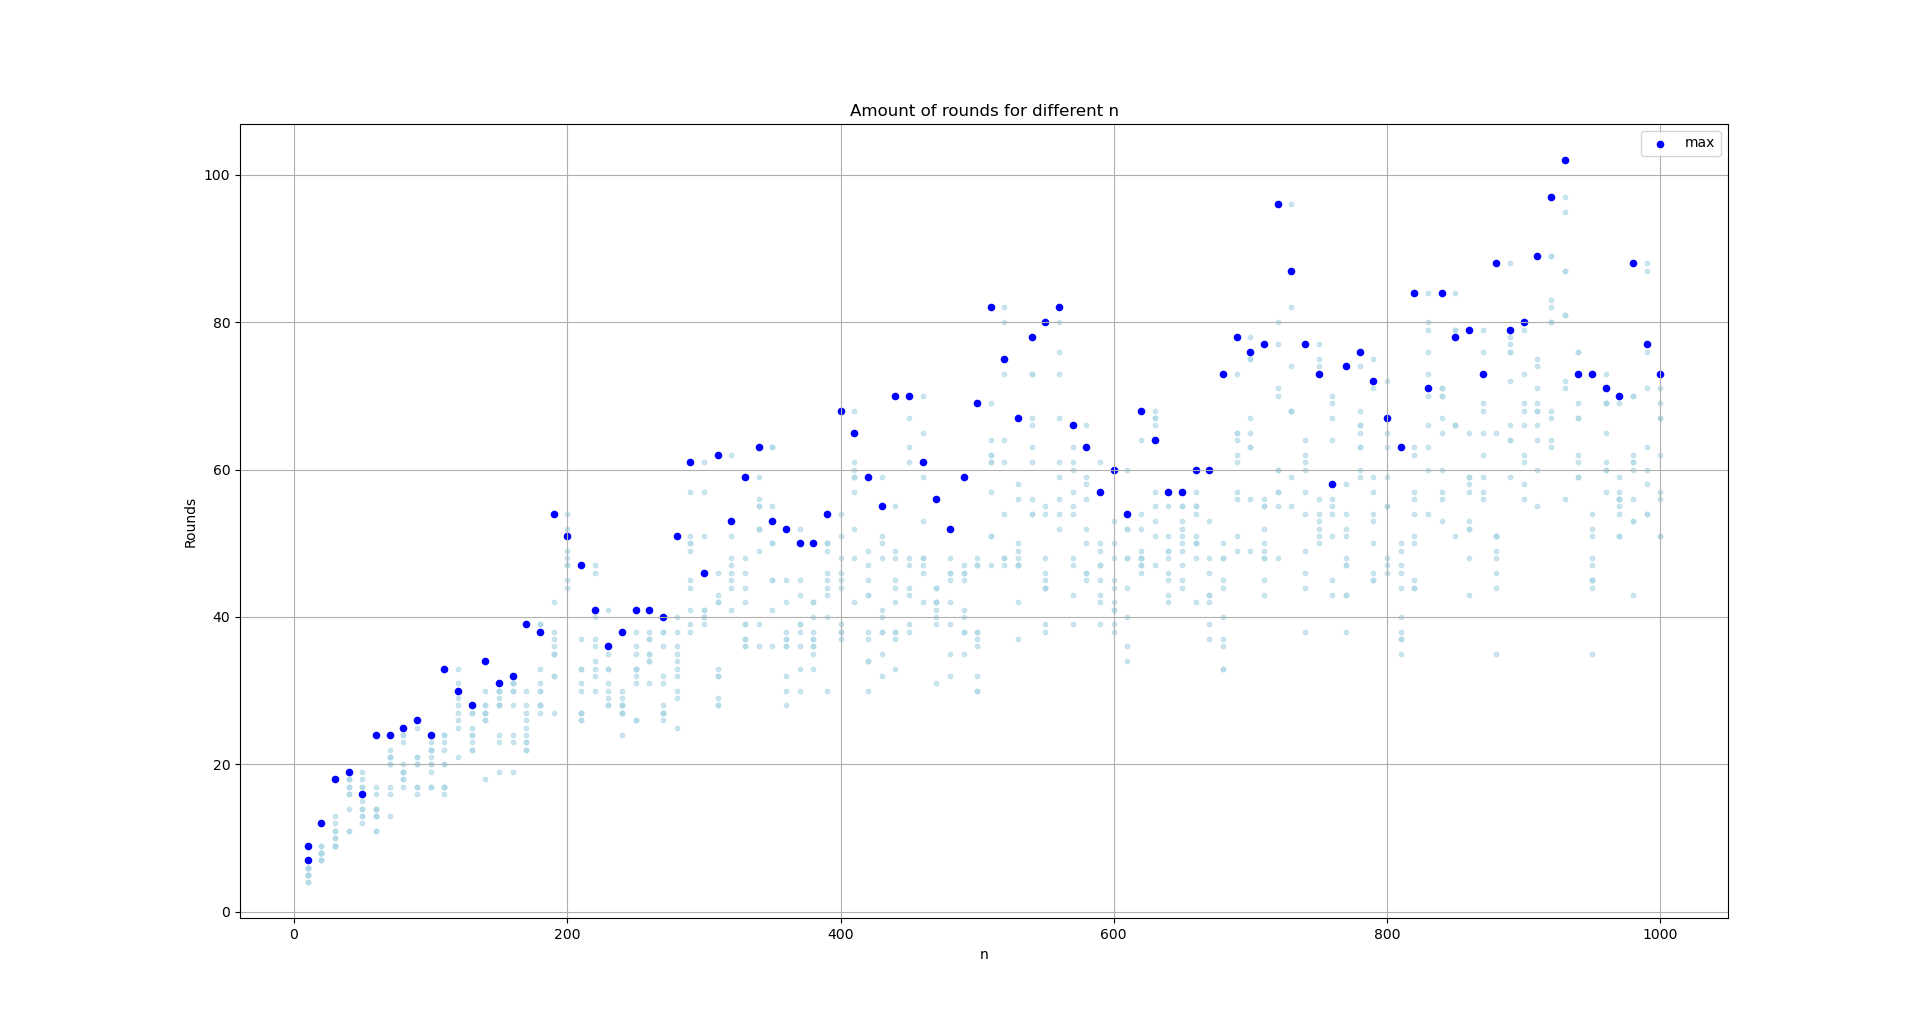
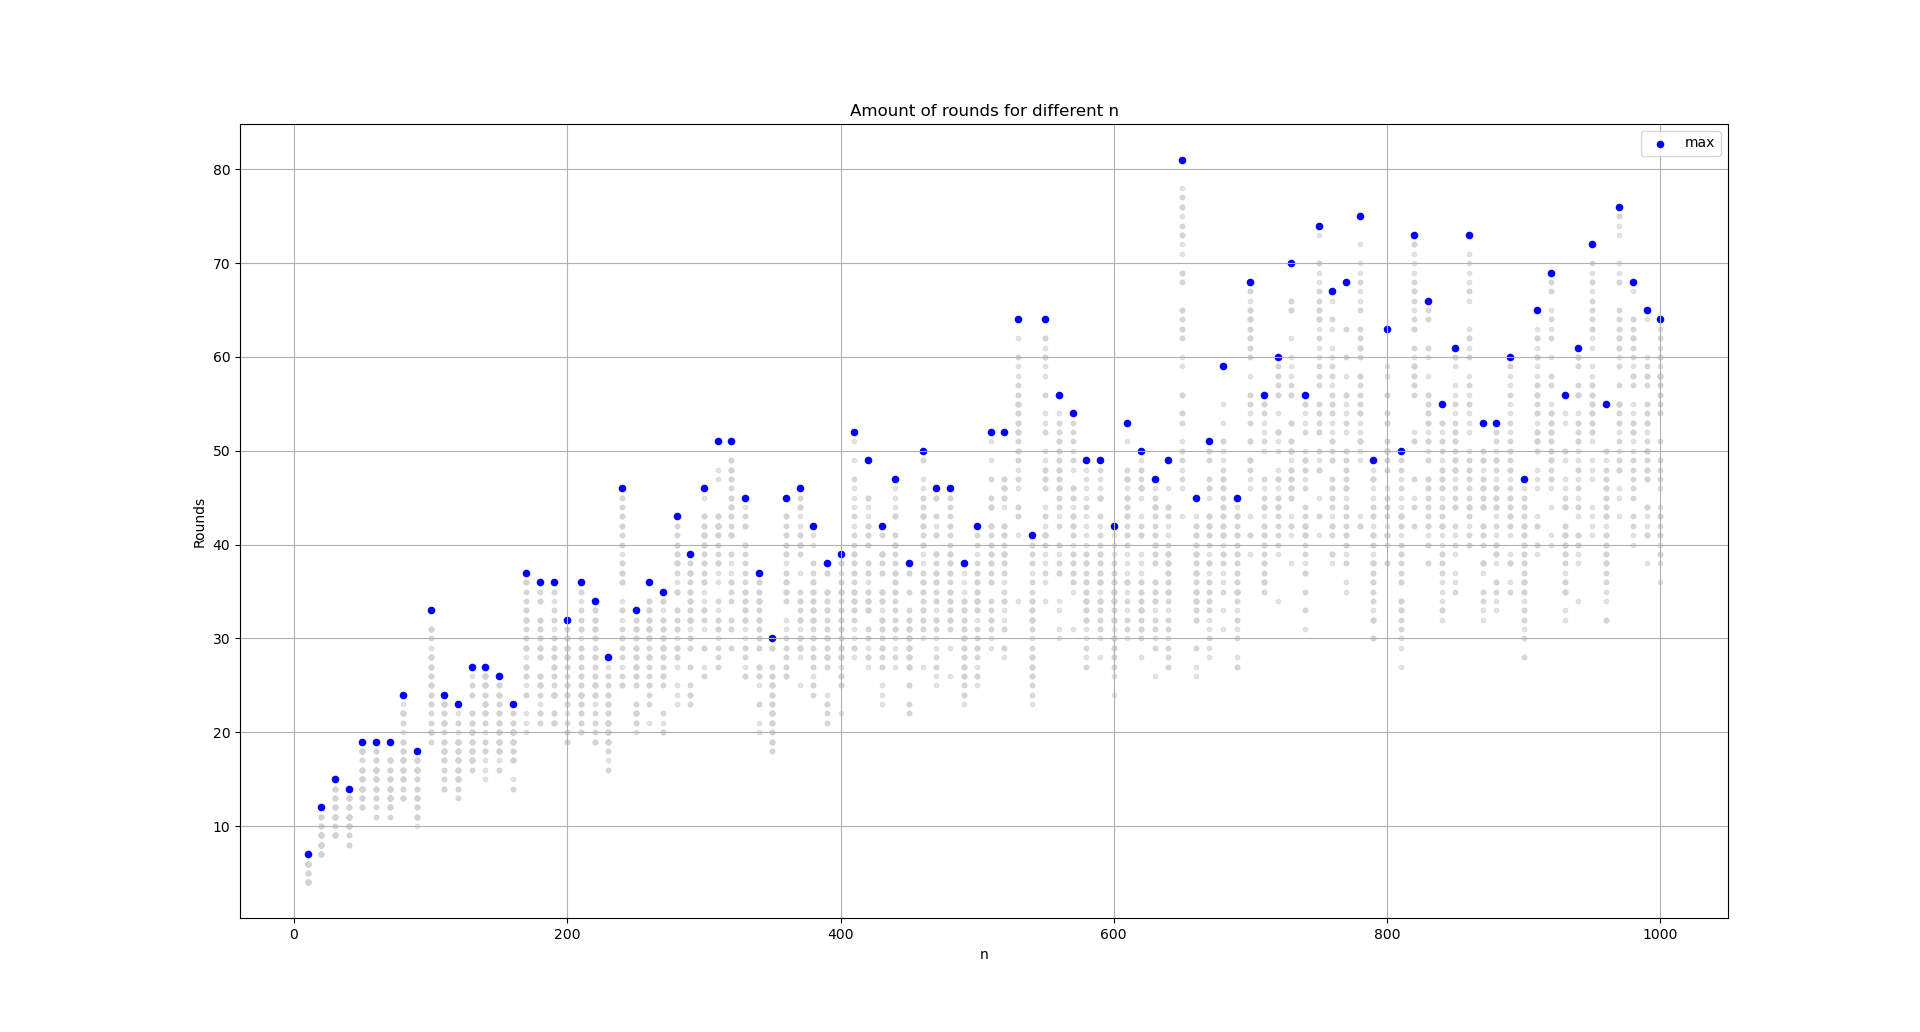
zad2 new version

diff --git a/lista5/zad2/RoundMinimizer.java b/lista5/zad2/RoundMinimizer.java
@@ -1,45 +1,129 @@
-import java.util.*;
+import java.util.ArrayList;
+import java.util.Collections;
+import java.util.List;
 
 public class RoundMinimizer {
-    public static int[] minimizeRounds(int[][] mst, int n, int root) {
-        List<List<Integer>> adjacencyList = new ArrayList<>();
+
+    public static int minimizeRounds(int[][] adjMatrix, int n, int root) {
+        Node[] nodes = new Node[n];
+
+        // adding nodes to node array
         for (int i = 0; i < n; i++) {
-            adjacencyList.add(new ArrayList<>());
+            nodes[i] = new Node(i);
         }
 
+        // adding children to each node
         for (int i = 0; i < n; i++) {
             for (int j = 0; j < n; j++) {
-                if (mst[i][j] == 1) {
-                    adjacencyList.get(i).add(j);
+                if (adjMatrix[i][j] == 1) {
+                    nodes[i].addChild(nodes[j]);
                 }
             }
         }
 
-        int[] rounds = new int[n];
-        Arrays.fill(rounds, -1);
-        Queue<Integer> queue = new LinkedList<>();
-        queue.offer(root);
-        rounds[root] = 0;
+        // setting parents for each node, root's parent is null
+        setParentChildRelations(nodes, root, null);
 
-        while (!queue.isEmpty()) {
-            int size = queue.size();
-            for (int i = 0; i < size; i++) {
-                int u = queue.poll();
-                
-                List<Integer> children = adjacencyList.get(u);
-                children.sort((a, b) -> adjacencyList.get(b).size() - adjacencyList.get(a).size());
-                int r = rounds[u] + 1;
+        // computing maximum number of rounds needed to propagate information starting from the root node
+        int maxRound = computePropagationOrder(nodes[root], null);
 
-                for (int v : children) {
-                    if (rounds[v] == -1) {
-                        rounds[v] = r;
-                        queue.offer(v);
-                        r++;
-                    }
-                }
+        return maxRound;
+    }
+
+    private static void setParentChildRelations(Node[] nodes, int current, Node parent) {
+        nodes[current].setParent(parent);
+
+        for (Node child : nodes[current].getChildren()) {
+            if (child != parent) {
+                setParentChildRelations(nodes, child.getId(), nodes[current]);
             }
         }
+    }
 
-        return rounds;
+    private static int computePropagationOrder(Node node, Node parent) {
+        // node has no children - no further propagation is needed, returns 0
+        if (node.getChildren().size() == 0 || (node.getChildren().size() == 1 && node.getChildren().get(0) == parent)) {
+            return 0;
+        }
+
+        List<Pair<Integer, Node>> childrenRounds = new ArrayList<>();
+
+        // recursively calculating how much round needed for each child
+        for (Node child : node.getChildren()) {
+            if (child != parent) {
+                int childRound = computePropagationOrder(child, node);
+                childrenRounds.add(new Pair<>(childRound, child));
+            }
+        }
+        
+        // sorting children and their respective rounds in descending order, so the ones requiring the most round starts first
+        Collections.sort(childrenRounds, (a, b) -> b.getKey() - a.getKey());
+
+        // computing maximum round required 
+        int maxRound = 0;
+        int currentRound = 1;
+
+        System.out.println("Node's " + node.getId() + " order of informing children:");
+
+        for (Pair<Integer, Node> pair : childrenRounds) {
+            Node childNode = pair.getValue();
+            System.out.println("Node " + childNode.getId());
+            int childRound = pair.getKey();
+            maxRound = Math.max(maxRound, currentRound + childRound);
+            currentRound++;
+        }
+        
+        System.out.println();
+
+        return maxRound;
+    }
+
+    private static class Node {
+        private int id;
+        private List<Node> children;
+        private Node parent;
+
+        public Node(int id) {
+            this.id = id;
+            this.children = new ArrayList<>();
+        }
+
+        public int getId() {
+            return id;
+        }
+
+        public List<Node> getChildren() {
+            return children;
+        }
+
+        public void addChild(Node child) {
+            children.add(child);
+        }
+
+        public void setParent(Node parent) {
+            this.parent = parent;
+        }
+
+        public Node getParent() {
+            return parent;
+        }
+    }
+
+    private static class Pair<K, V> {
+        private final K key;
+        private final V value;
+
+        public Pair(K key, V value) {
+            this.key = key;
+            this.value = value;
+        }
+
+        public K getKey() {
+            return key;
+        }
+
+        public V getValue() {
+            return value;
+        }
     }
 }

diff --git a/lista5/zad2/Main.java b/lista5/zad2/Main.java
@@ -44,7 +44,7 @@ public class Main {
         System.out.println();
 
         PrimsMST primMST = new PrimsMST(graph);
-        System.out.println("Minimum Spanning Tree (MST) edges using Prim's Algorithm:");
+        System.out.println("Minimum Spanning Tree (MST) edges");
         for (Edge edge : primMST.edges()) {
             System.out.println(edge);
         }
@@ -59,16 +59,13 @@ public class Main {
                 primMatrix[dest][src] = 1;
             }
         }
-
+        
         int root = 0;
-        int[] rounds = RoundMinimizer.minimizeRounds(primMatrix, n, root);
-        int maxRound = 0;
-        System.out.println("\nRounds needed for each vertex:");
-        for (int i = 0; i < n; i++) {
-            if (rounds[i] > maxRound) maxRound = rounds[i];
-            System.out.println("Vertex " + i + ": " + rounds[i] + " rounds");
-        }
 
-        System.out.println("\nMaximum round: " + maxRound);
+        System.out.println("\nStarting vertex: " + root + "\n");
+
+        int maxRound = RoundMinimizer.minimizeRounds(primMatrix, n, root);
+
+        System.out.println("Minimum rounds: " + maxRound);
     }
 }

diff --git a/lista5/zad2/GetResults.java b/lista5/zad2/GetResults.java
@@ -4,7 +4,7 @@ import java.util.Random;
 
 public class GetResults {
     public static void main(String[] args) {
-        for (int n = 10; n < 1001; n += 10) {
+        for (int n = 10; n <= 1000; n += 10) {
             System.out.println(n);
             Graph graph = new Graph(n);
 
@@ -23,13 +23,9 @@ public class GetResults {
 
             Random random = new Random();
 
-            for (int root = 0; root < 10; root++) {
+            for (int root = 0; root < 50; root++) {
                 int randomroot = random.nextInt(n);
-                int[] rounds = RoundMinimizer.minimizeRounds(primMatrix, n, randomroot);
-                int maxRound = 0;
-                for (int i = 0; i < n; i++) {
-                    if (rounds[i] > maxRound) maxRound = rounds[i];
-                }
+                int maxRound = RoundMinimizer.minimizeRounds(primMatrix, n, randomroot);
                 try (FileWriter writer = new FileWriter("mst_results.txt", true)) {
                     writer.write(n + " " + maxRound + "\n");
                 } catch (IOException e) {
